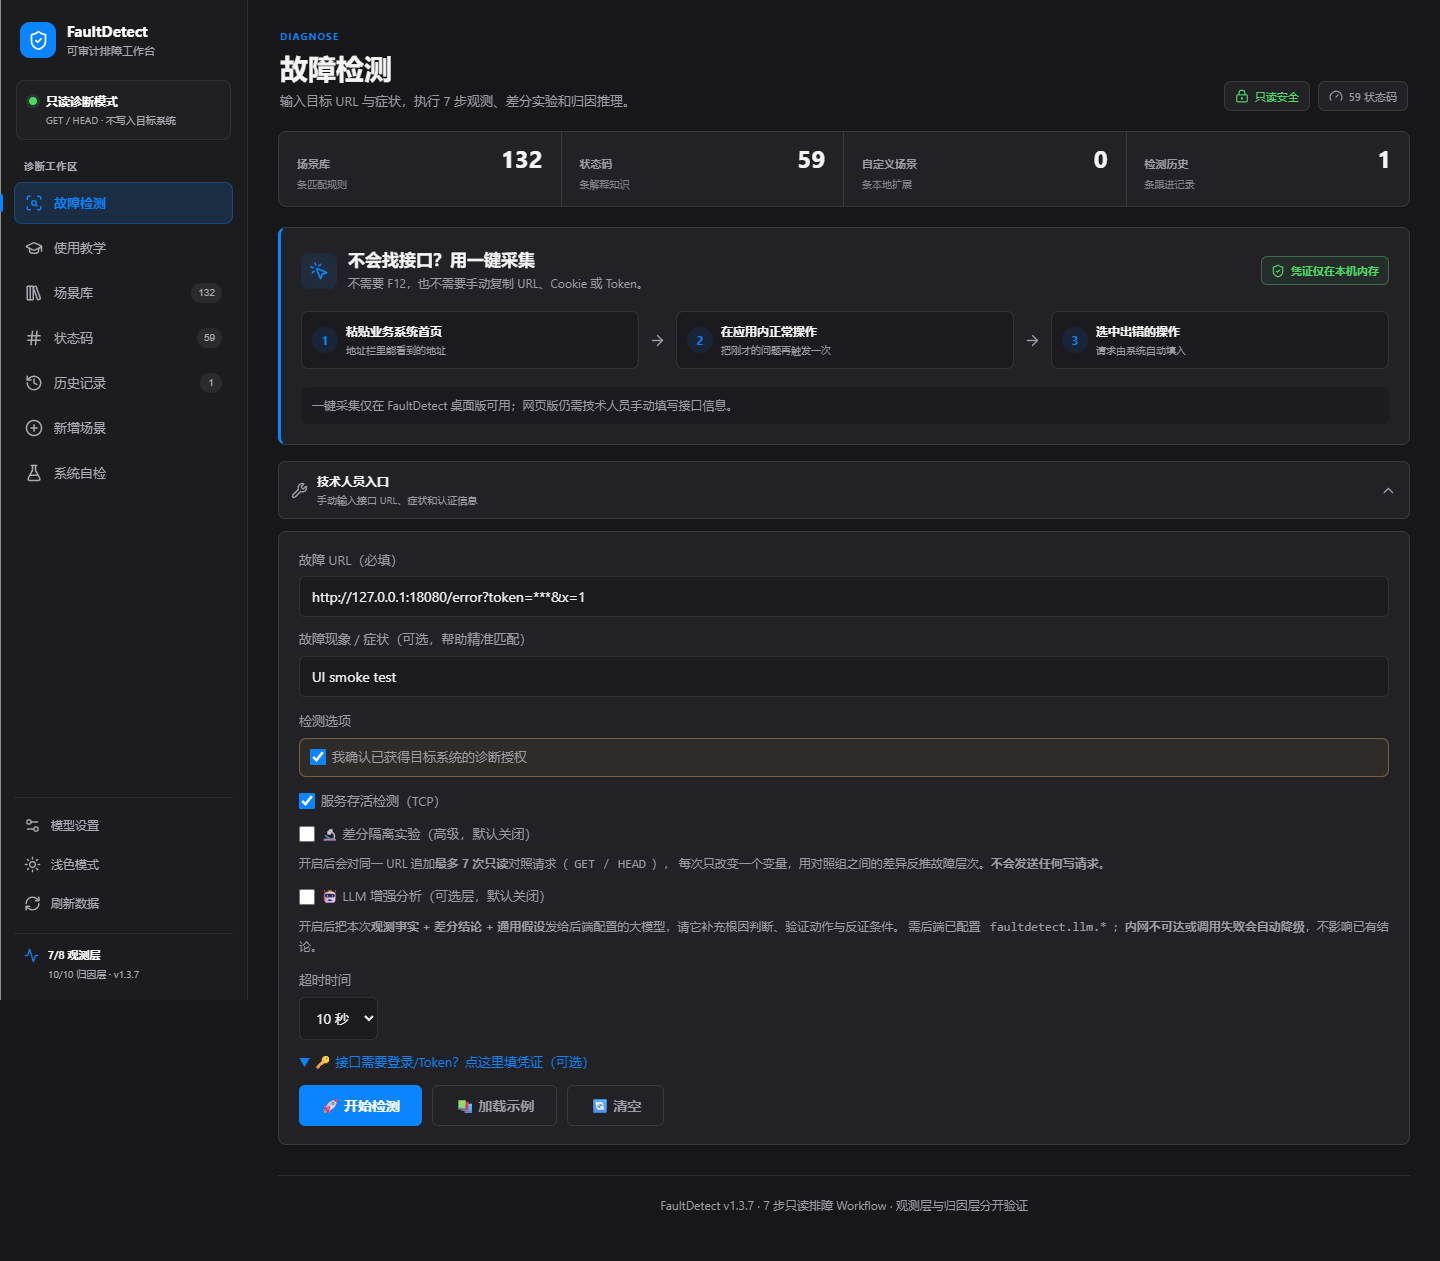
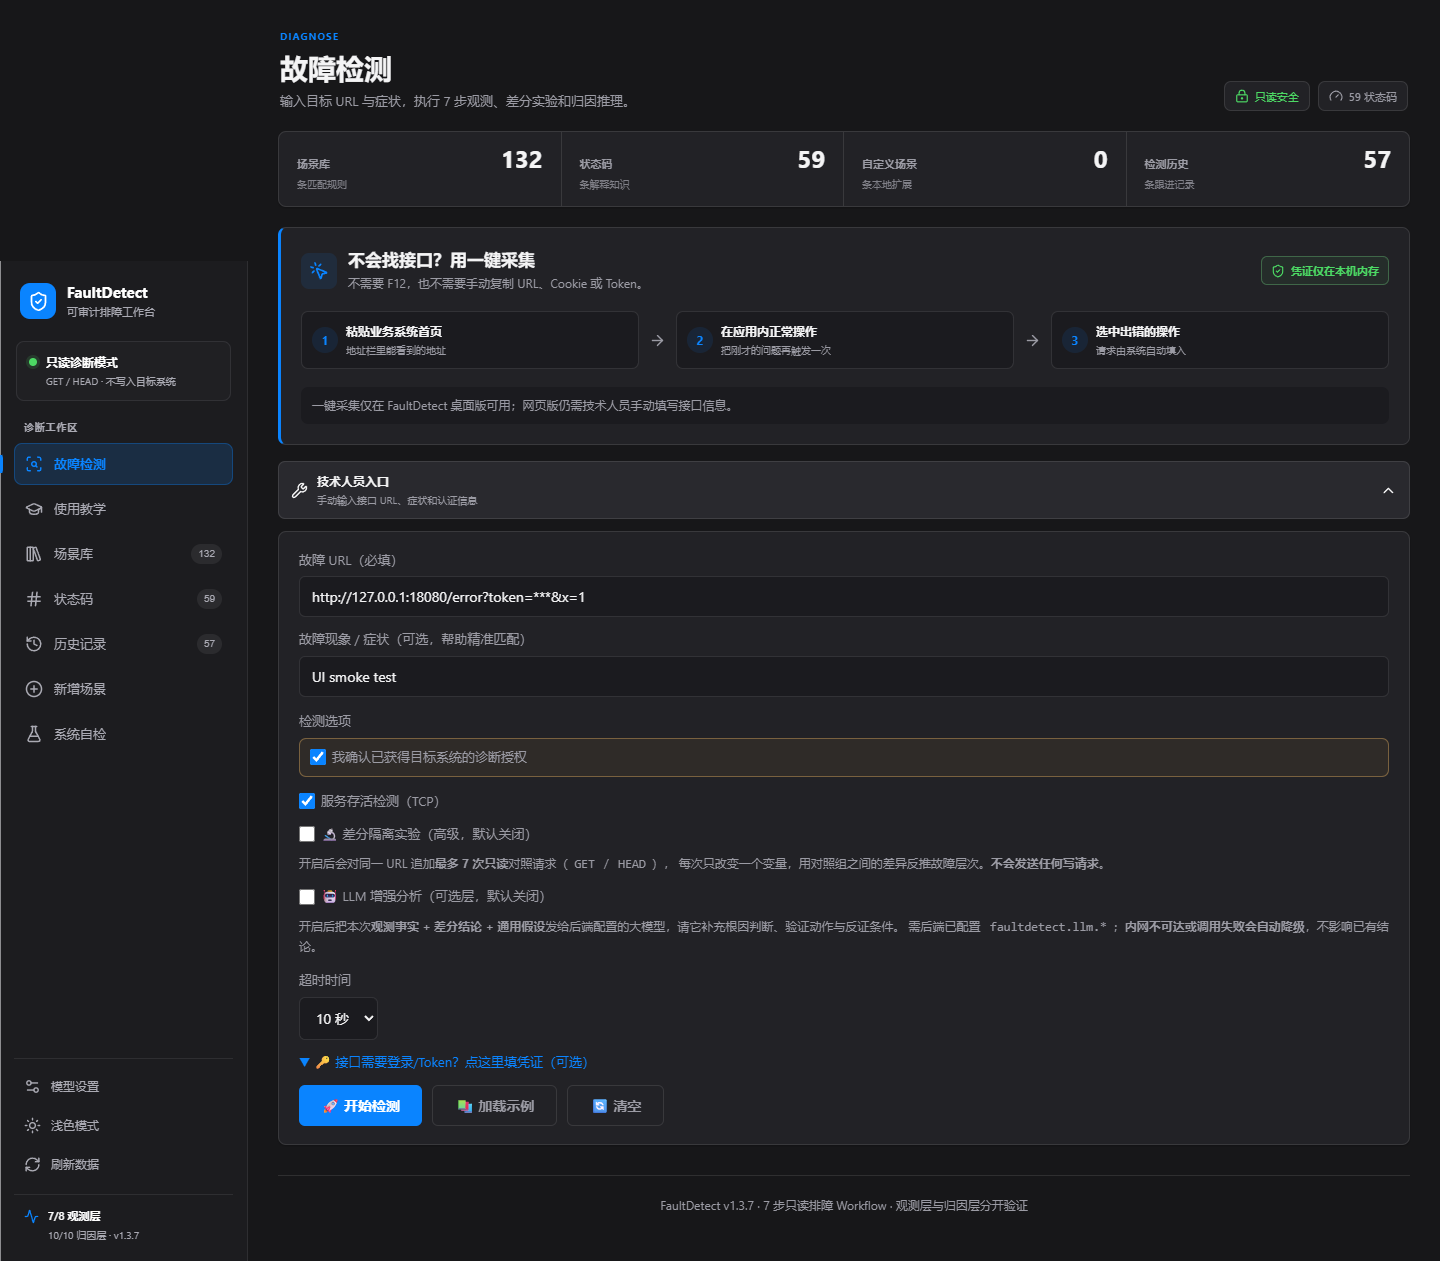
test: record final v1.3.7 regression

diff --git a/docs/testing/FaultDetect-Regression-v1.3.7-final.md b/docs/testing/FaultDetect-Regression-v1.3.7-final.md
@@ -1,0 +1,44 @@
+# FaultDetect 自动化回归报告
+
+生成时间：2026-11-08 00:24:57
+
+## 结论
+
+- 健康检查：ok
+- 观测层严格一致：7/8（87.5%）
+- 归因层固定用例：10/10（100%）
+- 未授权目标拦截：HTTP 400
+- 授权诊断、跟进、导出、单条删除：通过
+- 验收结果：通过，含 1 条已声明边界
+
+## 观测层
+
+| 用例 | 独立真值 | 系统实测 | 结果 | 说明 |
+| --- | --- | --- | --- | --- |
+| SC_01 | 200 | 200 | 通过 |  |
+| SC_02 | 404 | 404 | 通过 |  |
+| SC_03 | 500 | 500 | 通过 |  |
+| SC_04 | 200 | 200 | 通过 |  |
+| SC_05 | 200 | 200 | 通过 |  |
+| SC_06 | TIMEOUT | TIMEOUT | 通过 |  |
+| SC_07 | CONN_REFUSED | CONN_REFUSED | 通过 |  |
+| SC_08 | DNS_FAIL | CONN_REFUSED | 已知差异 | （已知粒度差异：真值为 DNS 解析失败，系统归类到「连接被拒绝 / 网络不通」，故障层次判断正确，但未细分 DNS 与端口两类原因） |
+
+## 归因层
+
+| 用例 | 场景 | 期望归属 | 实际归属 | 结果 |
+| --- | --- | --- | --- | --- |
+| AT_01 | 数据库单行查询返回多行 | database | database | 通过 |
+| AT_02 | 唯一约束冲突 | database | database | 通过 |
+| AT_03 | 参数校验失败 | frontend | frontend | 通过 |
+| AT_04 | 请求方法错误 | frontend | frontend | 通过 |
+| AT_05 | 服务限流 | service | service | 通过 |
+| AT_06 | 网关无法连接后端 | service | service | 通过 |
+| AT_07 | 网关等待后端超时 | performance | performance | 通过 |
+| AT_08 | 域名解析失败 | network | network | 通过 |
+| AT_09 | 连接超时 | network | network | 通过 |
+| AT_10 | 跨域配置拦截 | config | config | 通过 |
+
+## 口径
+
+观测层要求类别完全一致，DNS 解析失败不能与连接被拒绝合并成通过。归因层只验证系统能否把固定事实归到正确层次，不代表真实现场最终根因。该报告由 scripts/run-faultdetect-regression.ps1 生成，可重复执行。
